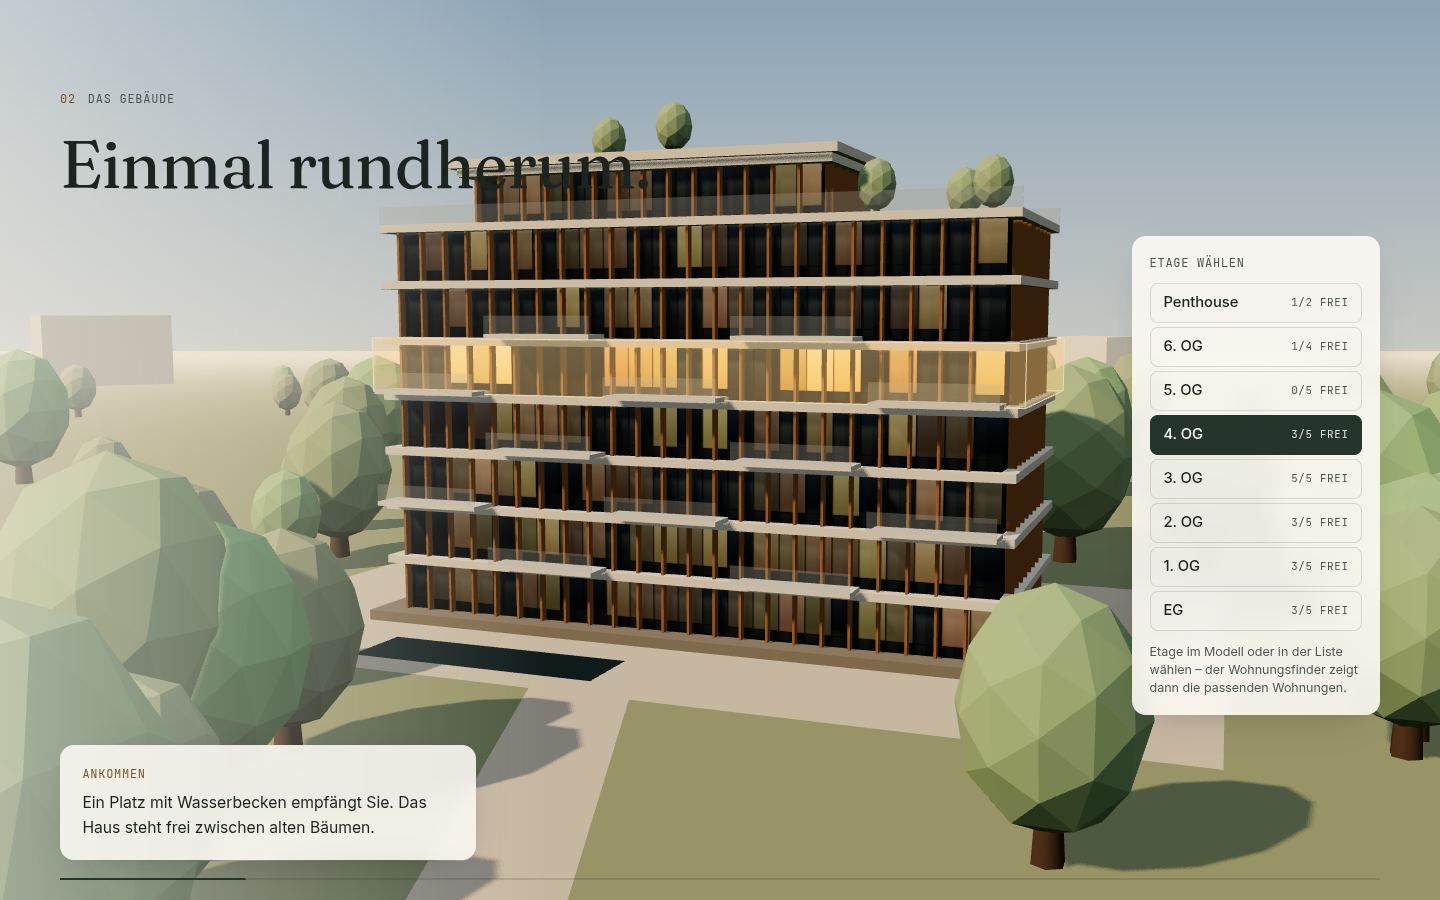
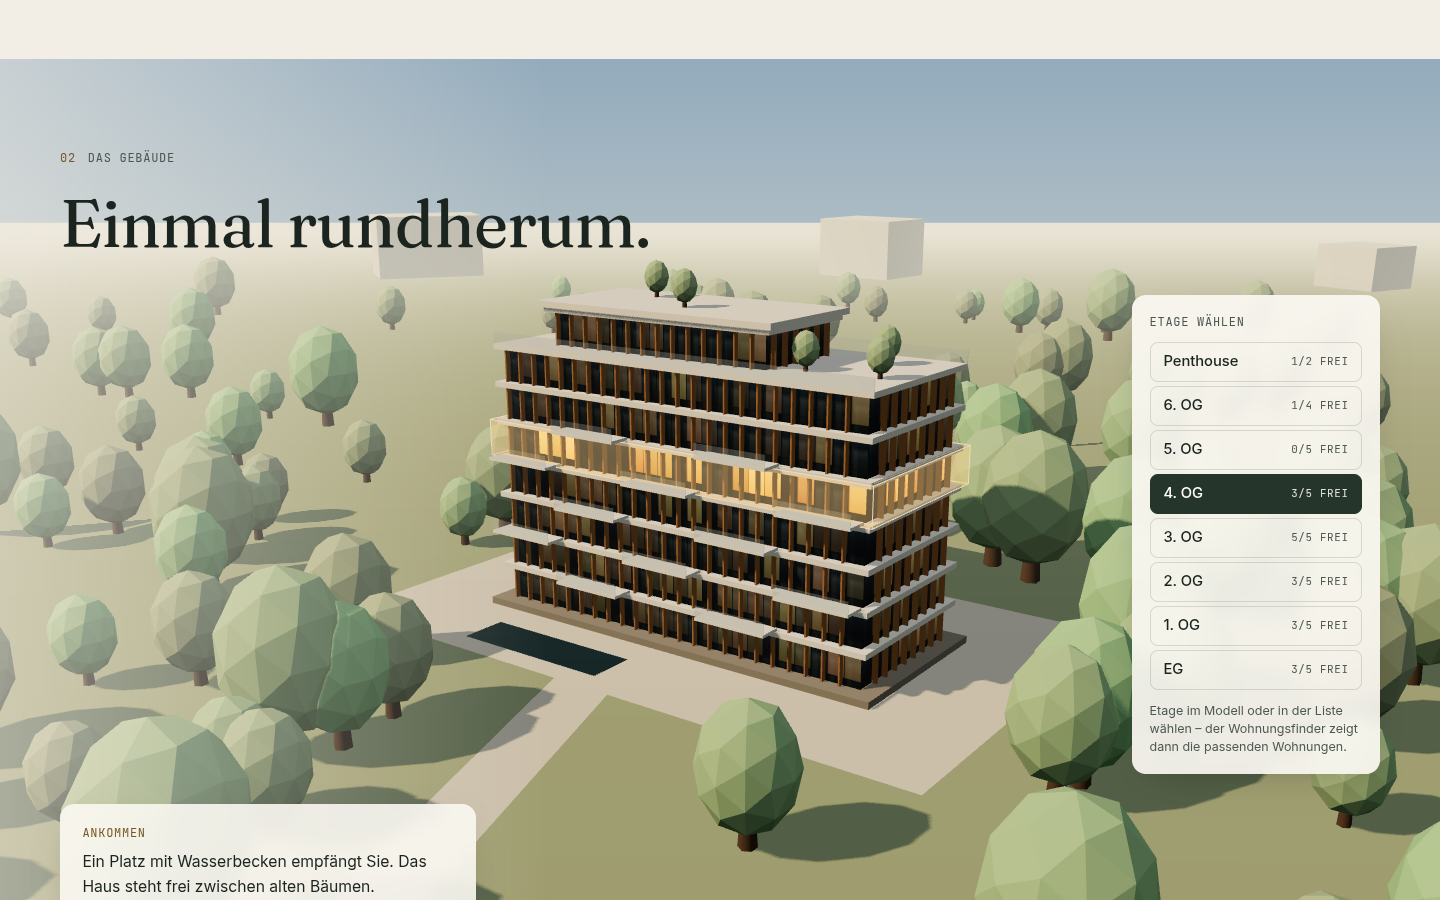
README: Live-Messwerte, Interaktionstest, Screenshots

diff --git a/README.md b/README.md
@@ -49,7 +49,17 @@ Wohnungsdaten: `src/data/apartments.js` – für ein echtes Projekt durch Daten 
 
 ## Messwerte
 
-MESSWERTE_PLATZHALTER
+Gemessen am 09.10.2026 gegen die **Live-Seite** (GitHub Pages), Lighthouse 13.5 (Standard-Drosselung), Median aus 5 Läufen je Formfaktor, axe-core 4.14 nach Durchscrollen. Rohdaten-Zusammenfassung: [`reports/live/summary.json`](reports/live/summary.json).
+
+| Lighthouse | Performance (Läufe) | Barrierefreiheit | Best Practices | SEO | FCP | LCP | TBT | CLS |
+| --- | --- | --- | --- | --- | --- | --- | --- | --- |
+| Mobil | **94** (94/81/83/94/96) | 100 | 100 | 100 | 2.12 s | 2.40 s | 11 ms | 0.008 |
+| Desktop | **100** (100/100/100/100/100) | 100 | 100 | 100 | 0.47 s | 0.54 s | 0 ms | 0.012 |
+
+- **axe-core:** 0 Verstöße auf der Startseite (Desktop 1440×900 und Mobil 390×844) sowie auf Impressum, Datenschutz, Bildrechte und 404 ([`reports/live/subpages.txt`](reports/live/subpages.txt)).
+- **Interaktionstest** (`scripts/interaction-test.mjs`, live): 31/31 Prüfungen bestanden, normal und mit „Bewegung reduzieren“, **keine Konsolenfehler** ([`reports/live/interaction-test.txt`](reports/live/interaction-test.txt)).
+- **Erstaufruf:** 270 KB in 9 Requests, keine Drittanbieter-Hosts. Three.js (≈141 KB gzip) wird erst geladen, wenn der Gebäude-Abschnitt näher kommt.
+- **Streuung:** Die Messumgebung ist ein geteilter Container ohne GPU (Software-WebGL) mit schwankender Last (Load Average ≈ 7–10 während der Messung); die mobilen Einzelwerte lagen zwischen 81 und 96.
 
 ## Recherche – genutzte Quellen (alle geöffnet)
 
